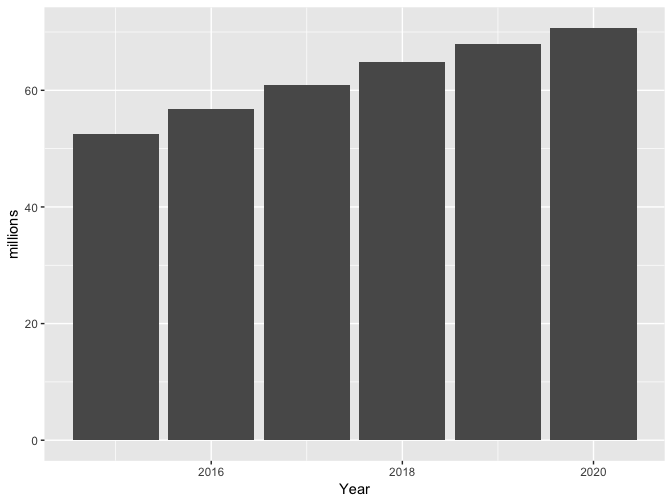
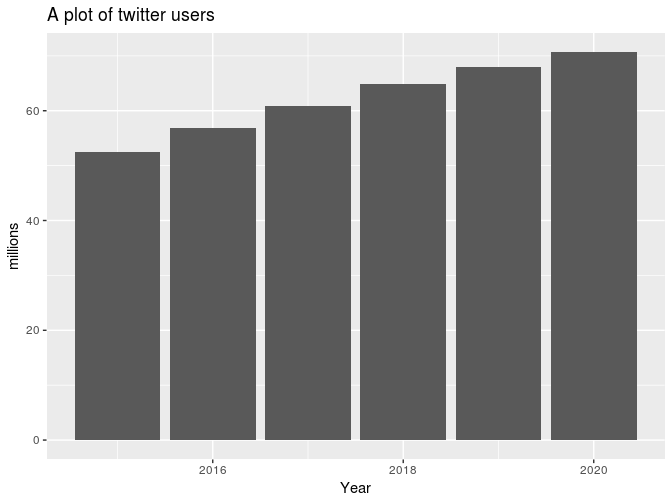
visulization

diff --git a/lectures/lesson04_visualization/README.md b/lectures/lesson04_visualization/README.md
@@ -17,23 +17,25 @@ Check [Chapter 3](http://r4ds.had.co.nz/data-visualisation.html) on dataviz in g
 Installing ggplot2
 ------------------
 
-Because you already installed the tidyverse, to use `ggplot2` you can just call `library(tidyverse)`. From now we will be using functions that are not part of base R, thus make you rerun `library(tidyverse)` every time you start a new R session, and to have a `library(tidyverse)` call before you use any ggplot2 function in your RMarkdown. If you get error messages saying that R `could not find function`, you probably have not loaded the package correctly.
+Because you already installed the tidyverse, calling `library(tidyverse)` loads `ggplot2` as well. From now on, we will be using functions that are not part of base R, thus make sure you load `library(tidyverse)` every time you start a new R session. Also, make sure you have a `library(tidyverse)` call before you use any ggplot2 function in your RMarkdown (the knitting runs in a new environment). If you get error messages saying that R `could not find function ...`, you probably have not loaded the package correctly.
 
 ``` r
 library(tidyverse)
+if (!require(here)) {install.packages('here')}
 load(here::here('data', 'dataset.RData'))
 ```
 
 Using ggplot2
 -------------
 
-Each ggplot2 statement requires at least a dataset, a set of aesthetics that the variables are mapped to, and the geometrical shape to visualize the aesthetics into.
+To look meaningful, each ggplot2 statement requires at least a dataset, a set of aesthetics that the variables are mapped to, and the geometrical shape to visualize the aesthetics into.
 
 For instance, to plot a chart of million of twitter users per year:
 
 ``` r
 ggplot() +
-  geom_col(data =  twitter_users, aes(x = Year, y = millions))
+  geom_col(data =  twitter_users, aes(x = Year, y = millions)) +
+  ggtitle('A plot of twitter users')
 ```
 
 <img src="README_files/figure-markdown_github/unnamed-chunk-2-1.png" alt="Millions of Twitter users" width="80%" />
@@ -53,7 +55,7 @@ ggplot2 builds on an underlying grammar, which entails seven fundamental element
 | coordinates | polar, cartesian                      |
 | themes      | non-data ink                          |
 
-The [concept of *mapping*](http://r4ds.had.co.nz/data-visualisation.html#aesthetic-mappings) is fundamental when learning ggplot2; although it might not be very intuitive at first, it ensures a high level of consistency when working in complex multivariate enviroment. *To map* means to assign a variable to an *aesthetic*, namely to a visual property such' height, fill color, border color, etc. In the previous example we mapped only to x-y coordinates; but you can call `?geom_col()` and scroll down in the help pane to the paragraph *Aesthetics* for a complete list of the attributes available. For instance, try to map Year to the fill too:
+The [concept of *mapping*](http://r4ds.had.co.nz/data-visualisation.html#aesthetic-mappings) is fundamental when learning ggplot2; although it might not be very intuitive at first, once you grasp it mapping several variables to the same plot becomes quite straightforward. *To map* means to assign a variable to an *aesthetic*, namely to a visual property such' height, fill color, border color, etc. In the previous example, we mapped only to x-y coordinates; but you can call `?geom_col()` and scroll down in the help pane to the paragraph *Aesthetics* for a complete list of the attributes available. For instance, try to map Year to the fill too:
 
 ``` r
 ggplot() +
@@ -66,7 +68,7 @@ From `freqCasualties`, plot a barchart of the count of casualties by class and g
 #what do we want to map to x and y? how do we map the third variable?
 ```
 
-Some times, you want to manually **set** a value for a certain aesthetic, rather than **mapping** a variable to in - in which the aesthetic is really interpretable, since is a non-data ink element. For instance, note the difference between the charts below:
+Some times, you want to manually **set** a value for a certain aesthetic, rather than **mapping** a variable to it - in that case the aesthetic is not really interpretable, since it constitutes a non-data ink element. For instance, note the difference between the charts below:
 
 ``` r
 ggplot() +
@@ -84,7 +86,7 @@ geom_line(data =  twitter_users, aes(x = Year, y = millions), color ='blue')
 
 To change color, you can use either [color names](http://www.stat.columbia.edu/~tzheng/files/Rcolor.pdf) (e.g., 'red'), hex codes (e.g., `#ff0000`) or rgb (e.g. `rgb(255, 0, 0)`).
 
-So far, we specified aesthetics and datasets inside a specific geom, but if we only use one dataset we can pass it to the `ggplot()` function and let the `geom_` to inherit the `aes` from the `ggplot()` statement.
+So far, we specified aesthetics and datasets inside a specific geom. However, if we want to pass the same dataset and aesthetics to multiple `geom_`, we can pass them once to the `ggplot()` function and let the `geom_` inheriting them from the `ggplot()` statement.
 
 ``` r
 #Use the dataset twitter_users
@@ -102,4 +104,8 @@ So far, we specified aesthetics and datasets inside a specific geom, but if we o
 -   use `beerDt` to create a linechart of beer consumption (in gallons of ethanol) in US from 1903.
 -   add a layer of points using `geom_point`
 
-Flag the observation for beer consumption in your birthyear (for instance changing the point color). One approach is to create a dummy variable called 'myBirthYear' that takes value 'My birthyear' for your birth year, and NA for everything else. You could use `ifelse()` or conditional indexing/assignment. Use `ggtitle()` to add a title to the chart.
+Suppose that you now want to flag (e.g., use a different color) the observation for consumption in your birthyear. We can do it in two steps:
+
+    1. Create a new variable called 'myBirthYear' that takes value 'My birthyear' for your birth year, and NA for everything else. You could use `ifelse()` or conditional indexing/assignment
+    2. Map `myBirthYear` to the fill of `geom_point` to flag your birth year
+    3. Use ggtitle to add a title to the chart
